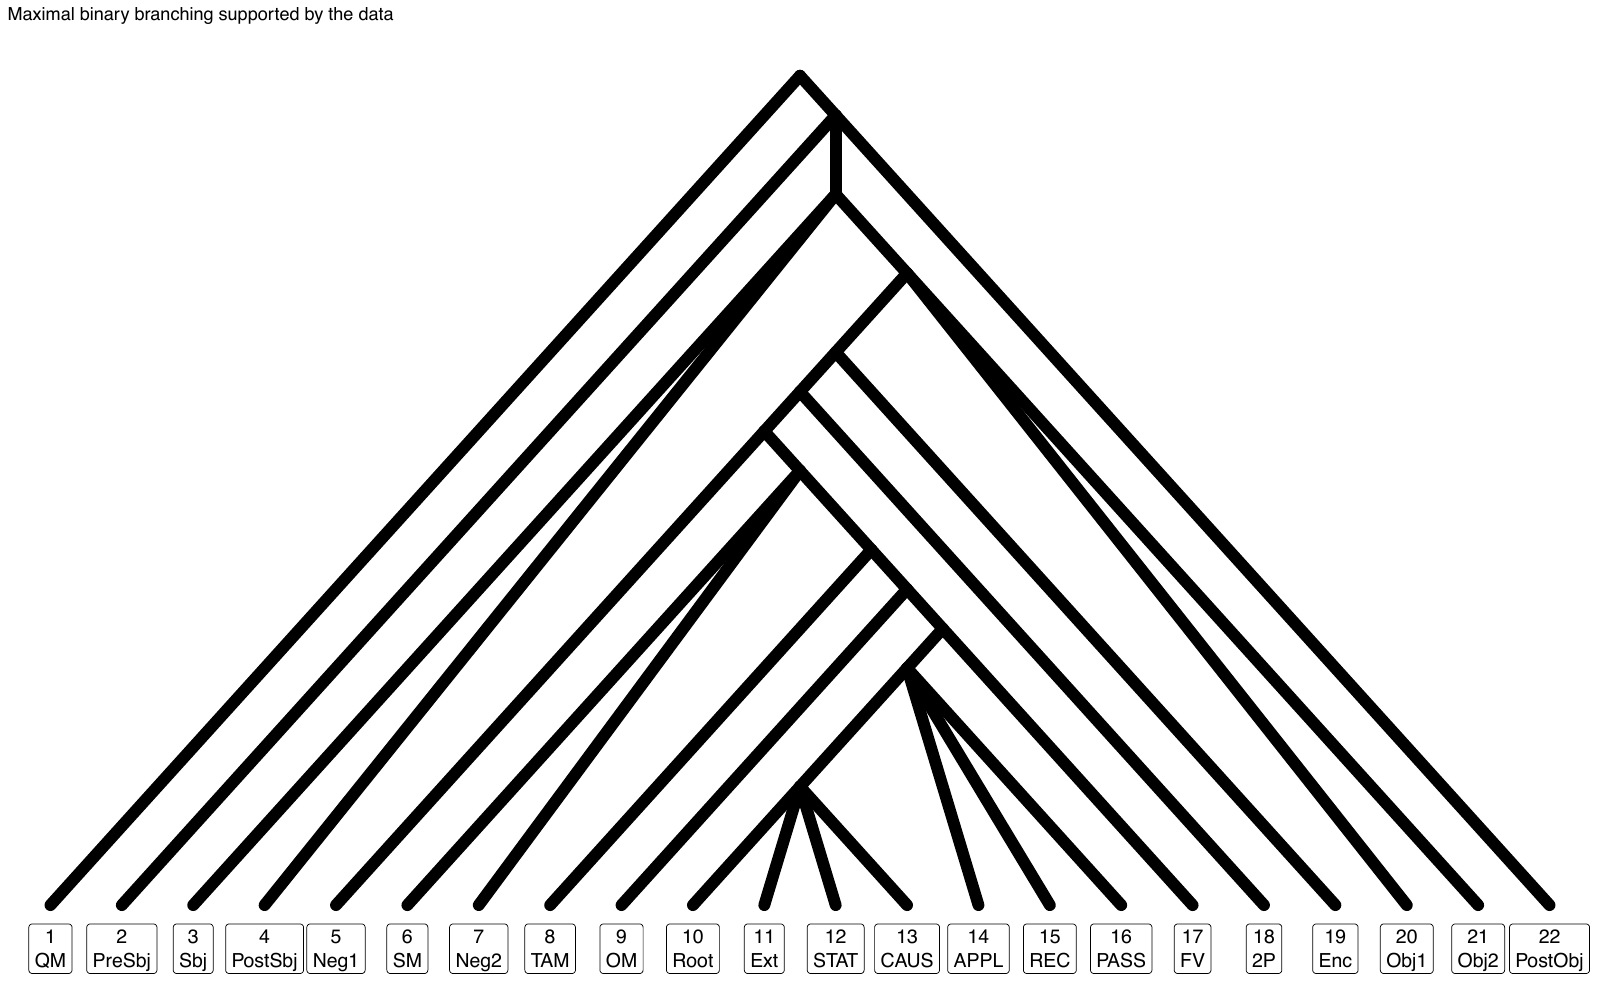
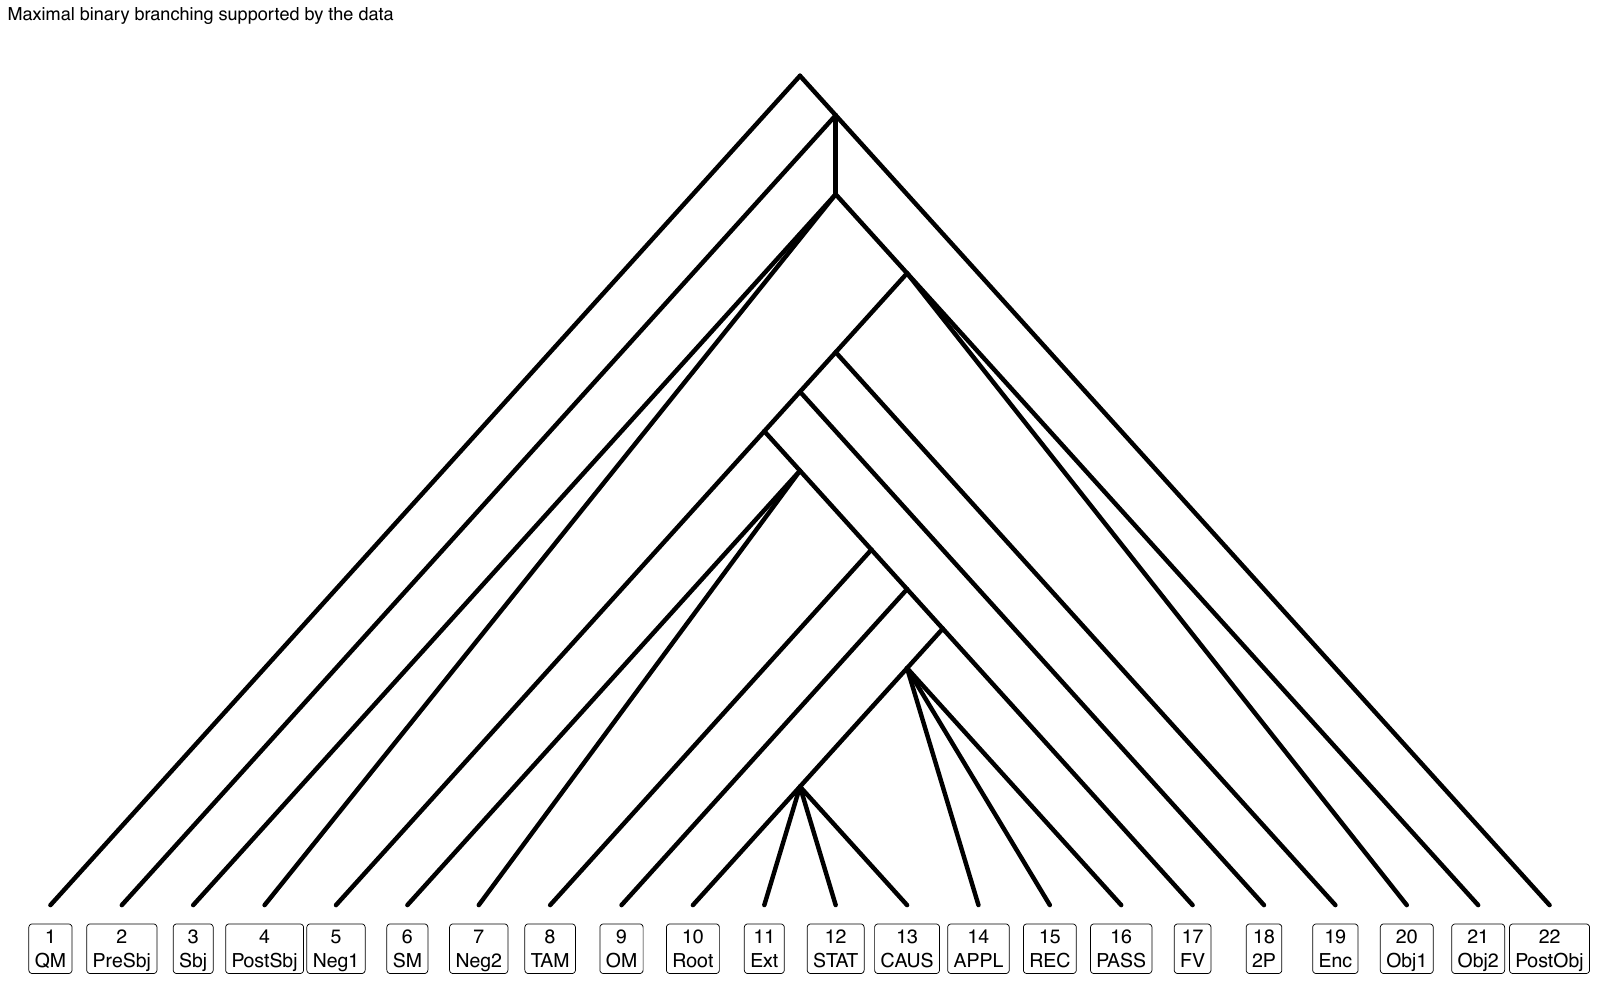
planarsviz: thinner lines on the unweighted illustration tree
Jeff asked why the lines were so thick. The tree charts scale line width up
to 4 at full support, so drawing with weight = "none" -- where every branch
counts as fully supported -- put the whole tree at the heaviest weight the
weighted charts use for their universal spans.

plot_frequency_tree() and planarsviz_summary_tree() now take branch_size,
the width of a fully supported branch. It defaults to 4 as before, and to
1.5 when weight = "none". Looked at 0.8, 1.5 and 2.5 rendered; 1.5 reads
cleanly without looking spindly at the chart's 16x10 in canvas.

The frequency tree and four trees are unchanged (re-checked: plot data
identical, 0.0000% differing pixels). Chart, catalogue image and the copy
in results/ re-rendered.

Claude-Session: https://claude.ai/code/session_01Y9T6sSm3ipcLkWr35kXTRo

Changed region(s): [[0.4375, 0.062, 0.9688, 0.899], [0.0312, 0.186, 0.5625, 0.899]]

diff --git a/NonCollaborative/docs/PLANARSVIZ_LIBRARY_PROGRESS.md b/NonCollaborative/docs/PLANARSVIZ_LIBRARY_PROGRESS.md
@@ -659,11 +659,16 @@ Reference images: 63 PNGs at 100 dpi in `results/planarsviz/reference/`
 - Notable: family_031 is also what greedy selection by test support gives
   (see the consensus note below), so the most branching tree is also the
   best-attested one — they agree here, which is worth saying in a caption.
-- R: `plot_frequency_tree()` gained `title` and `weight` (`"families"`
-  default, `"tests"`, `"none"`). Drawn with `weight = "none"`: frequency
-  shading made the deep binary spine — the very structure being
-  illustrated — nearly invisible, and test weighting faded the outer
-  backbone instead, which rests on few tests.
+- R: `plot_frequency_tree()` gained `title`, `weight` (`"families"`
+  default, `"tests"`, `"none"`) and `branch_size`. Drawn with
+  `weight = "none"`: frequency shading made the deep binary spine — the very
+  structure being illustrated — nearly invisible, and test weighting faded
+  the outer backbone instead, which rests on few tests.
+- Thickness: the weighted charts scale line width up to 4 at full support,
+  so drawing unweighted put every branch at that maximum and the first
+  version came out far too heavy (Jeff asked). `branch_size` now controls
+  it, defaulting to 1.5 when nothing is weighted and 4 otherwise, so the
+  weighted charts are untouched (re-checked, both still 0.0000%).
 - Checks: frequency tree and four trees re-checked after the `weight`
   change, both still identical (0.0000%); 14 bundle tests pass, including a
   new one pinning that `most_binary` names a maximally resolved family.

diff --git a/NonCollaborative/docs/planarsviz_charts.md b/NonCollaborative/docs/planarsviz_charts.md
@@ -183,6 +183,7 @@ plot_frequency_tree(bundle)
 | `selection` | Which selection in `selections.tsv` to draw (default `"consensus_all"`). |
 | `title` | Plot title; the default names the number of families. |
 | `weight` | What branch opacity and thickness show: `"families"` (default, the share of families containing the span), `"tests"` (support relative to the best-tested span), or `"none"` (solid — shape alone). |
+| `branch_size` | Thickness of a fully supported branch. Defaults to 4, the weighted charts' heaviest line; with `weight = "none"`, where every branch would be drawn at that weight, it defaults to 1.5. |
 
 Canvas 16 × 10 in. Renderer name `freqtree`; old file `nyan1308_freqtree.pdf`.
 
